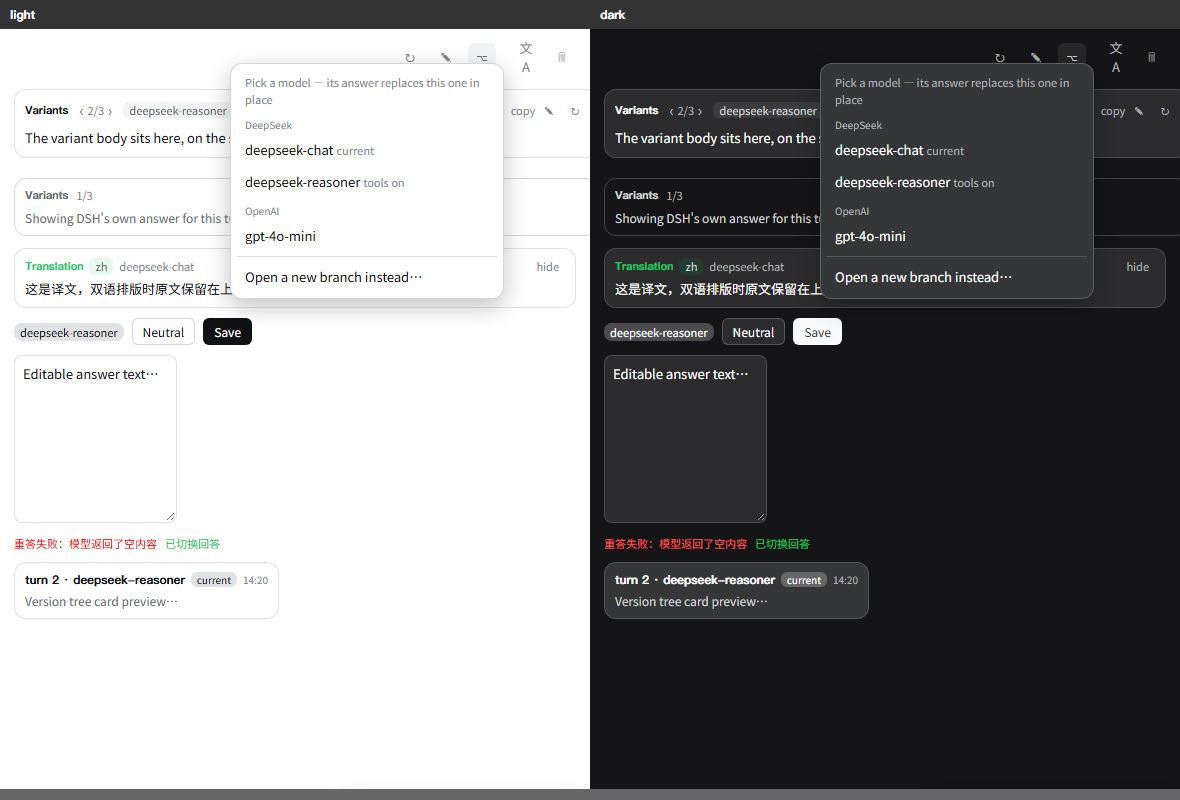
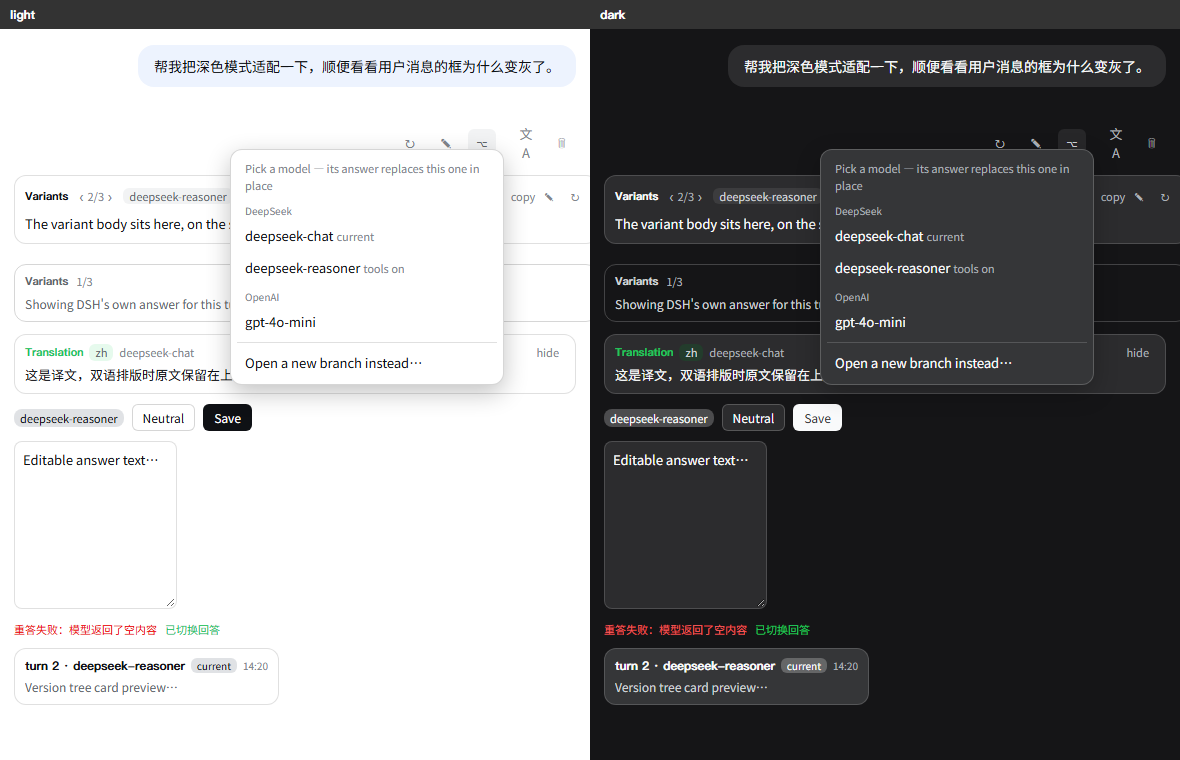
fix: restore DSH's light-blue user bubble
The plugin shadows the user chat node, so the whole bubble is ours: painting it
with the neutral interactive tint turned the light-blue fill grey. It now mirrors
Sixlwa_bubble exactly — --dsw-specific-bubble, radius-xl, 10/16 padding, content
font line height, same max-width formula — and the preview harness renders a user
bubble in both palettes so the fill is verifiable.

diff --git a/lib/client.js b/lib/client.js
@@ -1834,11 +1834,14 @@ const CSS = [
   // `body` (light) and `body[data-ds-dark-theme]` (dark), and a var() inside a
   // custom-property declaration resolves against *that* element — so declared
   // on :root these aliases would freeze at the light palette.
-  'body{--mtt-surface:var(--dsw-alias-bg-layer-3,Canvas);--mtt-surface-2:var(--dsw-alias-bg-layer-2,Canvas);--mtt-line:var(--dsw-alias-border-l3,rgba(128,128,128,.32));--mtt-line-strong:var(--dsw-alias-border-l4,rgba(128,128,128,.45));--mtt-fg:var(--dsw-alias-label-primary,CanvasText);--mtt-fg-2:var(--dsw-alias-label-secondary,CanvasText);--mtt-fg-3:var(--dsw-alias-label-tertiary,CanvasText);--mtt-hover:var(--dsw-alias-interactive-bg-hover,rgba(128,128,128,.16));--mtt-hover-accent:var(--dsw-alias-interactive-bg-hover-accent,rgba(99,102,241,.18));--mtt-primary:var(--dsw-alias-button-primary-fill,#2563eb);--mtt-on-primary:var(--dsw-alias-label-primary-inverted,#fff);--mtt-danger:var(--dsw-alias-state-error-primary,#dc2626);--mtt-danger-soft:var(--dsw-alias-state-error-secondary,rgba(220,38,38,.16));--mtt-ok:var(--dsw-alias-state-success-primary,#059669);--mtt-ok-soft:var(--dsw-alias-state-success-tertiary,rgba(5,150,105,.16));--mtt-shadow:var(--dsw-shadow-lv2,0 8px 24px rgba(0,0,0,.24));--mtt-radius-sm:var(--dsw-radius-sm,6px);--mtt-radius:var(--dsw-radius-md,8px);--mtt-radius-lg:var(--dsw-radius-lg,12px)}',
+  'body{--mtt-surface:var(--dsw-alias-bg-layer-3,Canvas);--mtt-surface-2:var(--dsw-alias-bg-layer-2,Canvas);--mtt-line:var(--dsw-alias-border-l3,rgba(128,128,128,.32));--mtt-line-strong:var(--dsw-alias-border-l4,rgba(128,128,128,.45));--mtt-fg:var(--dsw-alias-label-primary,CanvasText);--mtt-fg-2:var(--dsw-alias-label-secondary,CanvasText);--mtt-fg-3:var(--dsw-alias-label-tertiary,CanvasText);--mtt-hover:var(--dsw-alias-interactive-bg-hover,rgba(128,128,128,.16));--mtt-bubble:var(--dsw-specific-bubble,rgba(128,128,128,.14));--mtt-hover-accent:var(--dsw-alias-interactive-bg-hover-accent,rgba(99,102,241,.18));--mtt-primary:var(--dsw-alias-button-primary-fill,#2563eb);--mtt-on-primary:var(--dsw-alias-label-primary-inverted,#fff);--mtt-danger:var(--dsw-alias-state-error-primary,#dc2626);--mtt-danger-soft:var(--dsw-alias-state-error-secondary,rgba(220,38,38,.16));--mtt-ok:var(--dsw-alias-state-success-primary,#059669);--mtt-ok-soft:var(--dsw-alias-state-success-tertiary,rgba(5,150,105,.16));--mtt-shadow:var(--dsw-shadow-lv2,0 8px 24px rgba(0,0,0,.24));--mtt-radius-sm:var(--dsw-radius-sm,6px);--mtt-radius:var(--dsw-radius-md,8px);--mtt-radius-lg:var(--dsw-radius-lg,12px)}',
   '.mtt-row{display:flex;flex-direction:column;align-items:flex-end;gap:2px;margin:2px 0;min-width:0}',
   '.mtt-row.mtt-editing{align-items:stretch}',
   '.mtt-line{display:flex;justify-content:flex-end;width:100%;min-width:0}',
-  '.mtt-bubble{max-width:76%;background:var(--mtt-hover);border-radius:16px 16px 4px 16px;padding:10px 14px;color:inherit;font:inherit;min-width:0}',
+  // Exactly DSH's own user bubble (Sixlwa_bubble in dsh-client-ui-chat): the
+  // light-blue fill is --dsw-specific-bubble, not a neutral tint — the grey
+  // version this rule used to paint over it was the tell that the token was made up.
+  '.mtt-bubble{max-width:min(calc(var(--dsh-chat-content-width,748px) * .702),82%);background:var(--mtt-bubble);border-radius:var(--dsw-radius-xl,16px);padding:10px 16px;color:var(--dsw-alias-label-primary,CanvasText);font:inherit;font-size:var(--dsh-content-font-size,14px);line-height:calc(22px + var(--dsh-content-font-delta,0px));min-width:0;white-space:pre-wrap;word-break:break-word}',
   '.mtt-text{white-space:pre-wrap;word-break:break-word}',
   // Action rows mirror DSH's own MessageIconActions.module.css exactly:
   // 28px hit box (plus the user's content-font delta), 6px padding, 8px gap,

diff --git a/plugin.client.js b/plugin.client.js
@@ -1814,11 +1814,14 @@ const CSS = [
   // `body` (light) and `body[data-ds-dark-theme]` (dark), and a var() inside a
   // custom-property declaration resolves against *that* element — so declared
   // on :root these aliases would freeze at the light palette.
-  'body{--mtt-surface:var(--dsw-alias-bg-layer-3,Canvas);--mtt-surface-2:var(--dsw-alias-bg-layer-2,Canvas);--mtt-line:var(--dsw-alias-border-l3,rgba(128,128,128,.32));--mtt-line-strong:var(--dsw-alias-border-l4,rgba(128,128,128,.45));--mtt-fg:var(--dsw-alias-label-primary,CanvasText);--mtt-fg-2:var(--dsw-alias-label-secondary,CanvasText);--mtt-fg-3:var(--dsw-alias-label-tertiary,CanvasText);--mtt-hover:var(--dsw-alias-interactive-bg-hover,rgba(128,128,128,.16));--mtt-hover-accent:var(--dsw-alias-interactive-bg-hover-accent,rgba(99,102,241,.18));--mtt-primary:var(--dsw-alias-button-primary-fill,#2563eb);--mtt-on-primary:var(--dsw-alias-label-primary-inverted,#fff);--mtt-danger:var(--dsw-alias-state-error-primary,#dc2626);--mtt-danger-soft:var(--dsw-alias-state-error-secondary,rgba(220,38,38,.16));--mtt-ok:var(--dsw-alias-state-success-primary,#059669);--mtt-ok-soft:var(--dsw-alias-state-success-tertiary,rgba(5,150,105,.16));--mtt-shadow:var(--dsw-shadow-lv2,0 8px 24px rgba(0,0,0,.24));--mtt-radius-sm:var(--dsw-radius-sm,6px);--mtt-radius:var(--dsw-radius-md,8px);--mtt-radius-lg:var(--dsw-radius-lg,12px)}',
+  'body{--mtt-surface:var(--dsw-alias-bg-layer-3,Canvas);--mtt-surface-2:var(--dsw-alias-bg-layer-2,Canvas);--mtt-line:var(--dsw-alias-border-l3,rgba(128,128,128,.32));--mtt-line-strong:var(--dsw-alias-border-l4,rgba(128,128,128,.45));--mtt-fg:var(--dsw-alias-label-primary,CanvasText);--mtt-fg-2:var(--dsw-alias-label-secondary,CanvasText);--mtt-fg-3:var(--dsw-alias-label-tertiary,CanvasText);--mtt-hover:var(--dsw-alias-interactive-bg-hover,rgba(128,128,128,.16));--mtt-bubble:var(--dsw-specific-bubble,rgba(128,128,128,.14));--mtt-hover-accent:var(--dsw-alias-interactive-bg-hover-accent,rgba(99,102,241,.18));--mtt-primary:var(--dsw-alias-button-primary-fill,#2563eb);--mtt-on-primary:var(--dsw-alias-label-primary-inverted,#fff);--mtt-danger:var(--dsw-alias-state-error-primary,#dc2626);--mtt-danger-soft:var(--dsw-alias-state-error-secondary,rgba(220,38,38,.16));--mtt-ok:var(--dsw-alias-state-success-primary,#059669);--mtt-ok-soft:var(--dsw-alias-state-success-tertiary,rgba(5,150,105,.16));--mtt-shadow:var(--dsw-shadow-lv2,0 8px 24px rgba(0,0,0,.24));--mtt-radius-sm:var(--dsw-radius-sm,6px);--mtt-radius:var(--dsw-radius-md,8px);--mtt-radius-lg:var(--dsw-radius-lg,12px)}',
   '.mtt-row{display:flex;flex-direction:column;align-items:flex-end;gap:2px;margin:2px 0;min-width:0}',
   '.mtt-row.mtt-editing{align-items:stretch}',
   '.mtt-line{display:flex;justify-content:flex-end;width:100%;min-width:0}',
-  '.mtt-bubble{max-width:76%;background:var(--mtt-hover);border-radius:16px 16px 4px 16px;padding:10px 14px;color:inherit;font:inherit;min-width:0}',
+  // Exactly DSH's own user bubble (Sixlwa_bubble in dsh-client-ui-chat): the
+  // light-blue fill is --dsw-specific-bubble, not a neutral tint — the grey
+  // version this rule used to paint over it was the tell that the token was made up.
+  '.mtt-bubble{max-width:min(calc(var(--dsh-chat-content-width,748px) * .702),82%);background:var(--mtt-bubble);border-radius:var(--dsw-radius-xl,16px);padding:10px 16px;color:var(--dsw-alias-label-primary,CanvasText);font:inherit;font-size:var(--dsh-content-font-size,14px);line-height:calc(22px + var(--dsh-content-font-delta,0px));min-width:0;white-space:pre-wrap;word-break:break-word}',
   '.mtt-text{white-space:pre-wrap;word-break:break-word}',
   // Action rows mirror DSH's own MessageIconActions.module.css exactly:
   // 28px hit box (plus the user's content-font delta), 6px padding, 8px gap,

diff --git a/README.md b/README.md
@@ -44,7 +44,7 @@ Or from a packed tarball:
 
 ```bash
 npm pack
-dsh plugin --profile web add file:./dsh-message-toolbar-0.2.1.tgz
+dsh plugin --profile web add file:./dsh-message-toolbar-0.2.2.tgz
 ```
 
 Then add `dsh-message-toolbar` to `dsh.profile.bundles` in the profile `package.json`
@@ -167,7 +167,7 @@ dsh plugin --profile web add file:$(pwd)
 
 ```bash
 npm pack
-dsh plugin --profile web add file:./dsh-message-toolbar-0.2.1.tgz
+dsh plugin --profile web add file:./dsh-message-toolbar-0.2.2.tgz
 ```
 
 如果插件管理器没有自动登记，请手动把 `dsh-message-toolbar` 加进 profile 的 `package.json`

diff --git a/CHANGELOG.md b/CHANGELOG.md
@@ -1,5 +1,13 @@
 # Changelog
 
+## 0.2.2
+
+- **The user bubble is DSH's bubble again.** It had been painted with the same neutral tint the rest
+  of the old CSS used, which turned the light-blue bubble grey. The rule now mirrors DSH's own
+  `Sixlwa_bubble`: `background: var(--dsw-specific-bubble)` (deepseek-50 in light, neutral-bluish-850
+  in dark), `border-radius: var(--dsw-radius-xl)`, `padding: 10px 16px`, the content-font line height
+  and the same max-width formula.
+
 ## 0.2.1
 
 - **The menus follow the theme.** Every colour now comes from DSH's own aliases (`bg-layer-2/3`,
